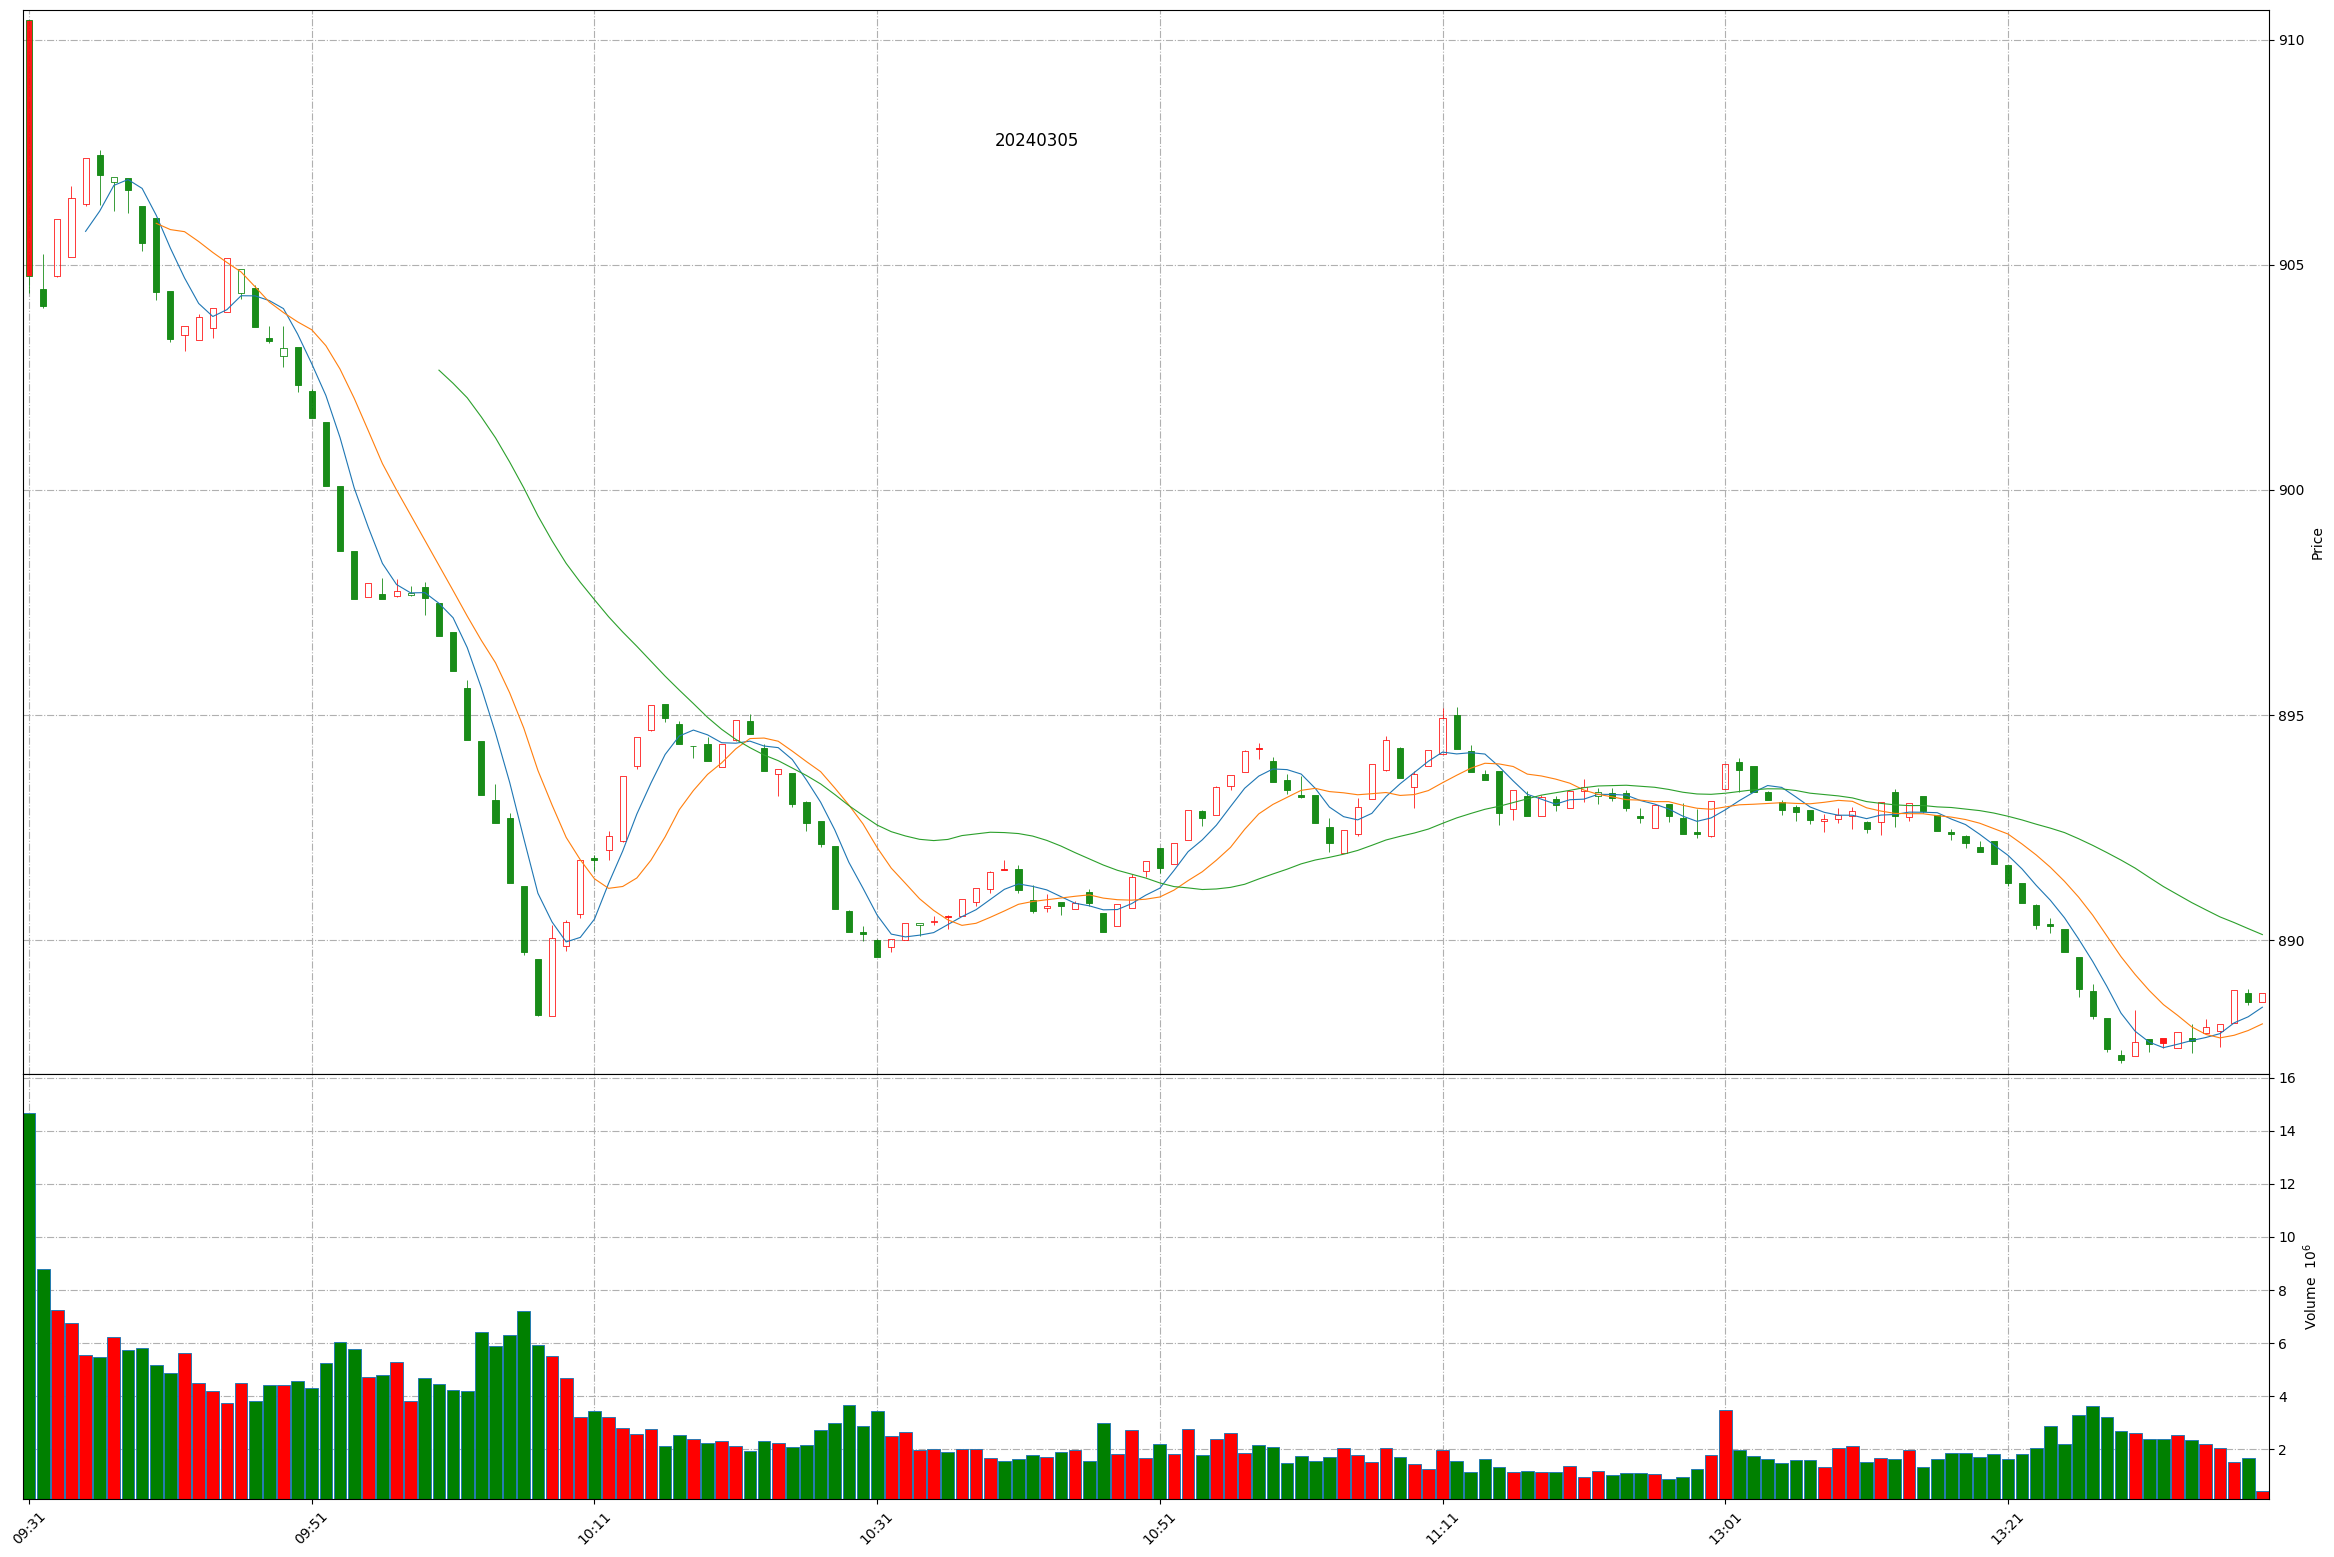
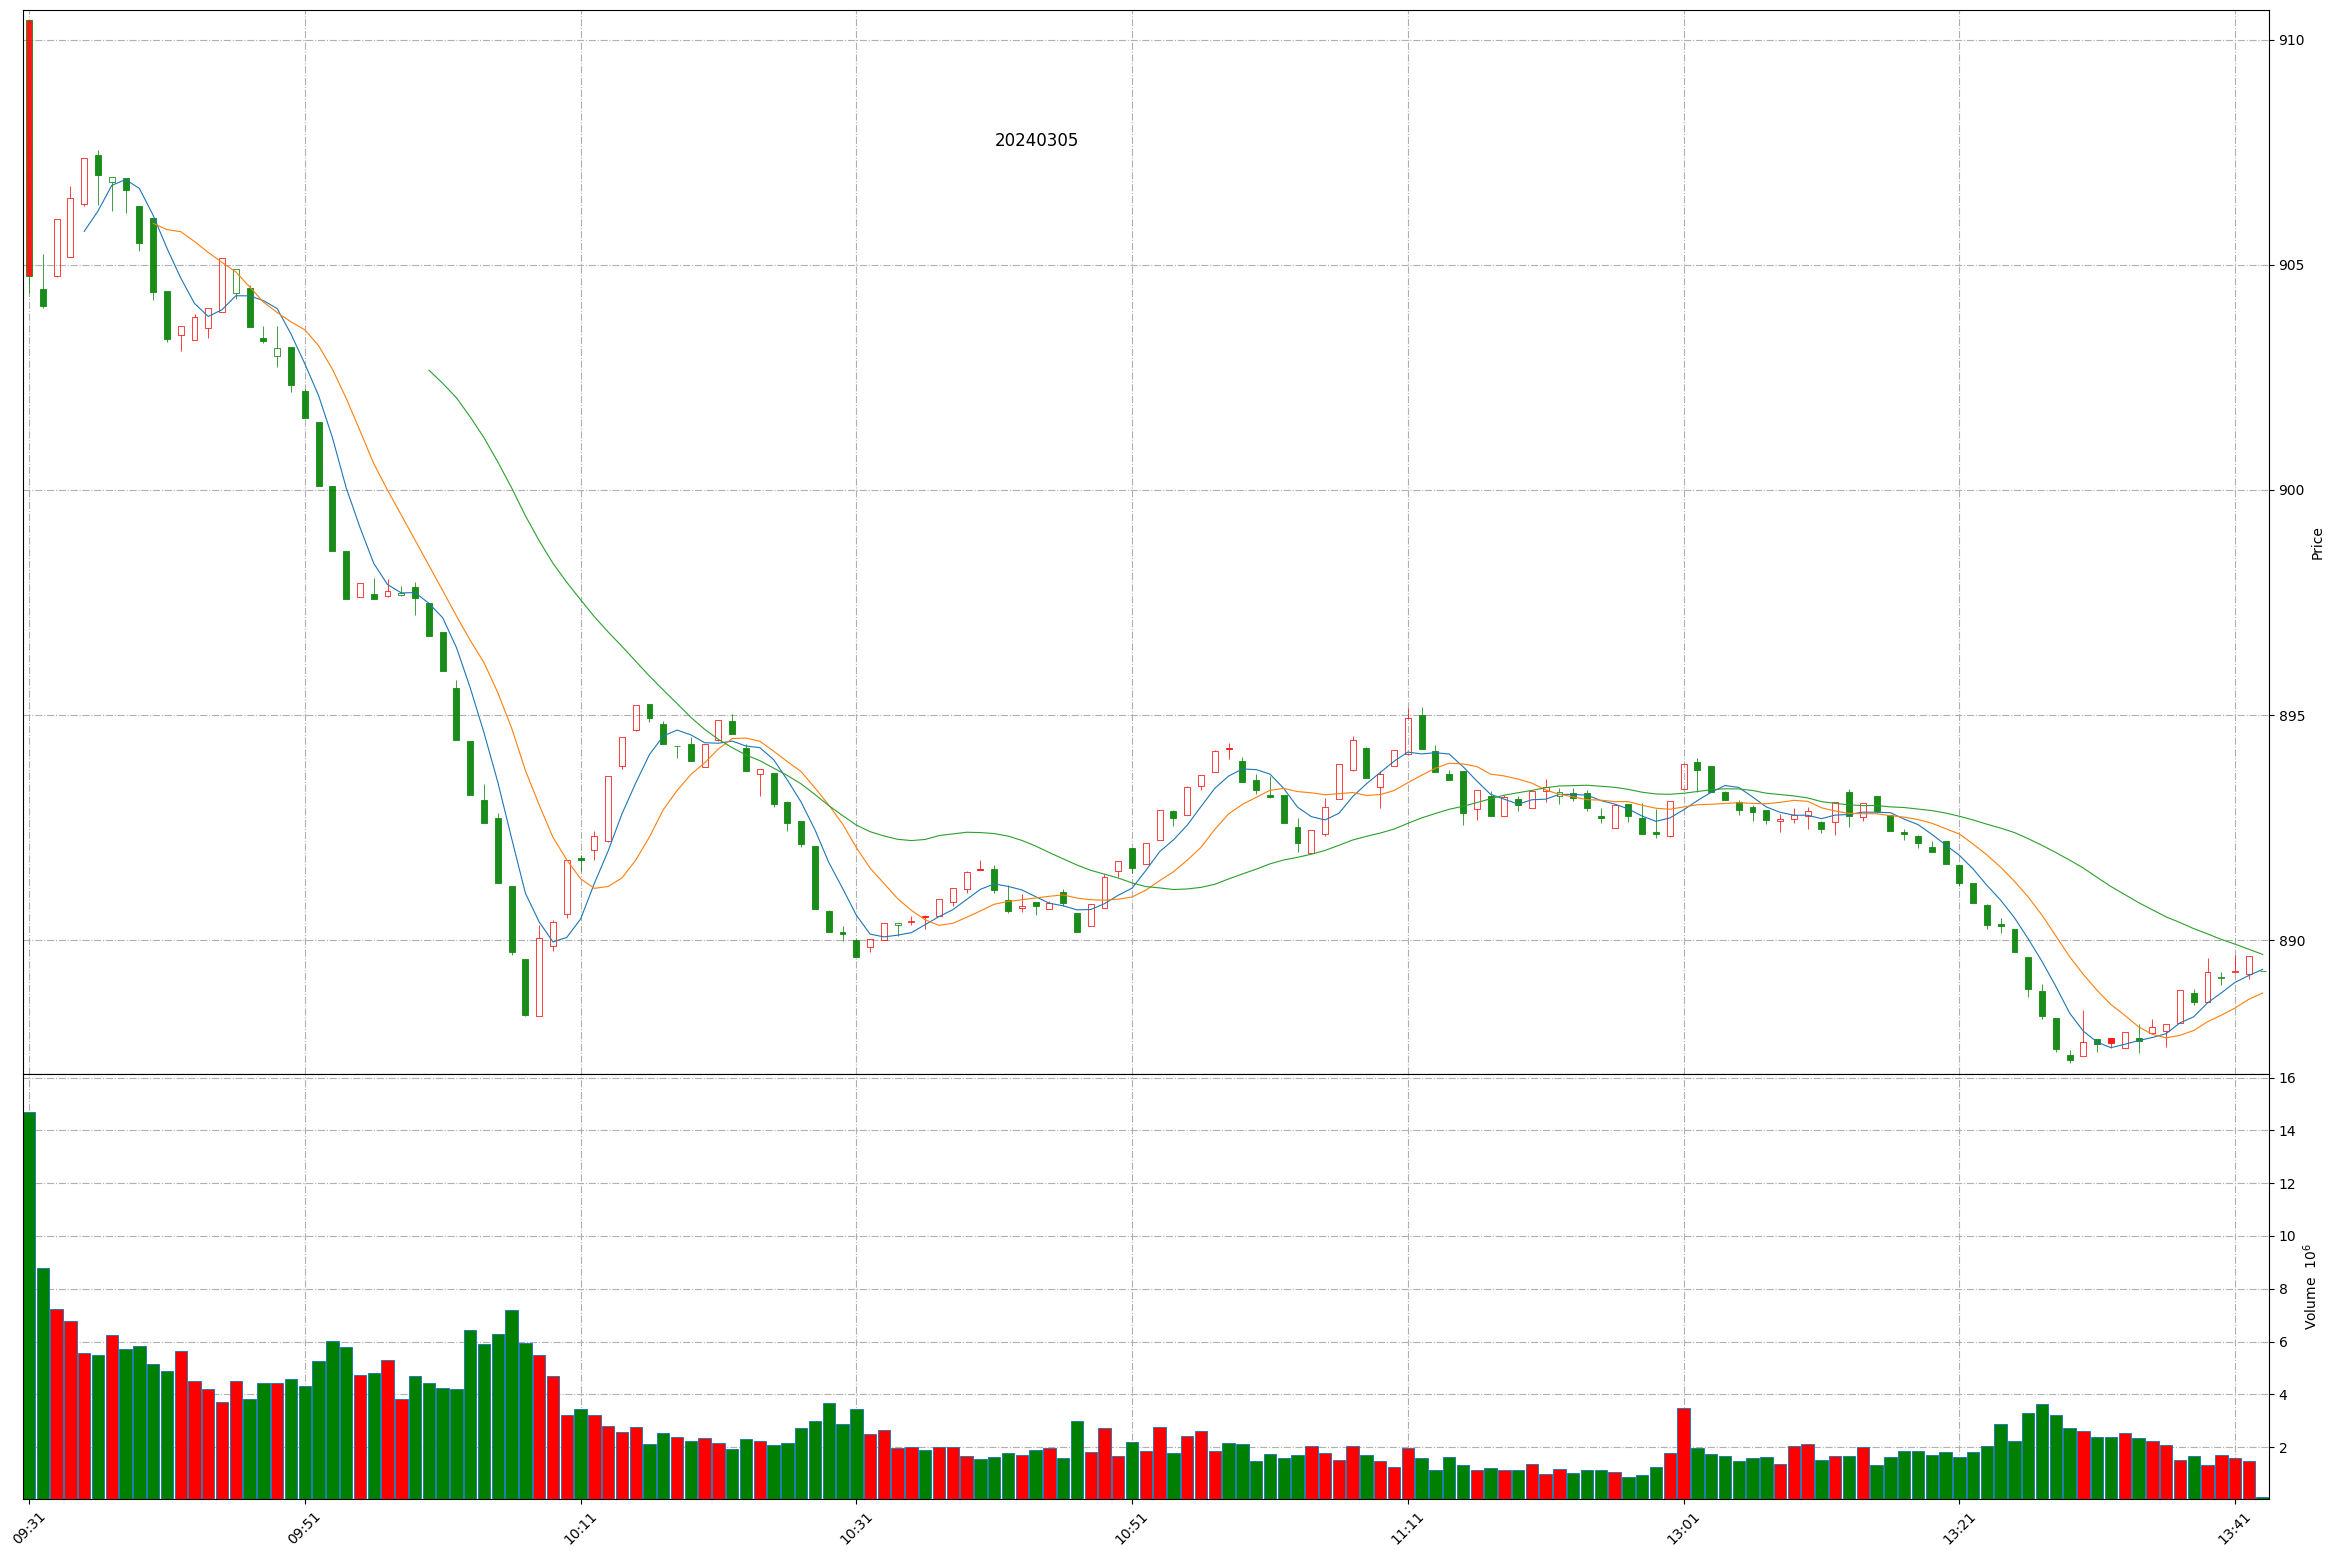
Github action update at 2024-03-05 13:42:23.

diff --git a/README.md b/README.md
@@ -1,11 +1,11 @@
 
 # Daily-A-share-market-quotes 每日 A 股指数（5min 更新）- 20240305
 
-### 上证指数 20240305 13:38
+### 上证指数 20240305 13:42
 ![](./fig/2024/3/20240305-sh000001.png)
 
-### 深证成指 20240305 13:38
+### 深证成指 20240305 13:42
 ![](./fig/2024/3/20240305-sz399001.png)
 
-### 北证50 20240305 13:38
+### 北证50 20240305 13:42
 ![](./fig/2024/3/20240305-bj899050.png)
